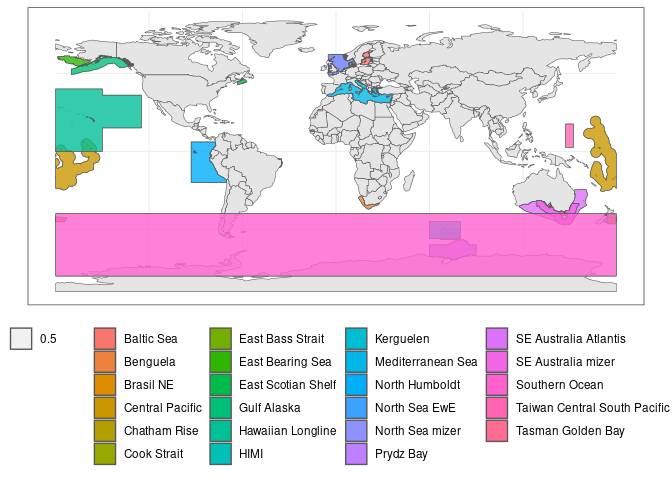
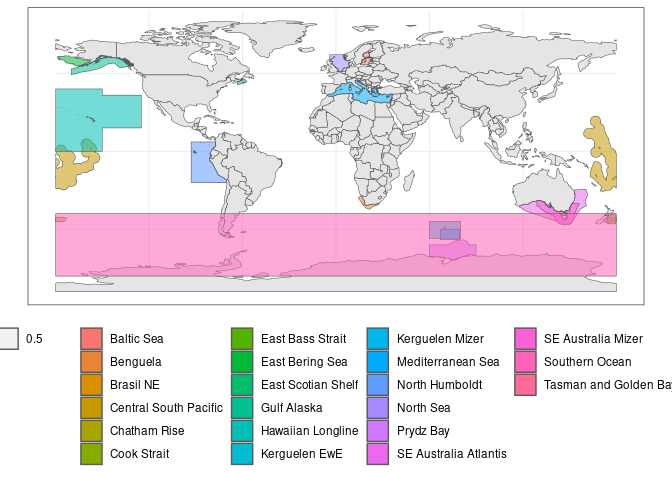
Correcting regional shapefiles

diff --git a/Scripts/01_Merging_Regional_Shapefiles.md b/Scripts/01_Merging_Regional_Shapefiles.md
@@ -8,6 +8,8 @@ Denisse Fierro Arcos
   libraries</a>
 - <a href="#loading-regional-shapefiles"
   id="toc-loading-regional-shapefiles">Loading regional shapefiles</a>
+  - <a href="#getting-list-of-directories"
+    id="toc-getting-list-of-directories">Getting list of directories</a>
   - <a href="#getting-list-of-lme-names-from-directory-paths"
     id="toc-getting-list-of-lme-names-from-directory-paths">Getting list of
     LME names from directory paths</a>
@@ -29,6 +31,7 @@ create maps or masks to extract Earth System Models (ESMs) outputs.
 library(dplyr)
 library(stringr)
 library(purrr)
+library(tidyr)
 #Spatial data
 library(sf)
 #Plotting data
@@ -47,6 +50,32 @@ to access this file.
 
 If you need access to regional shapefiles, please [email
 us](mailto:fishmip.coordinators@gmail.com).
+
+## Getting list of directories
+
+The name of the folders containing regional shapefiles contain the
+ecosystem models developed for that particular region. We will use this
+information to create two new columns in the final FishMIP regional
+models shapefile.
+
+``` r
+#Getting name of folders containing regional models
+reg <- list.dirs("../Shapefiles_Regions/", recursive = F, full.names = F)
+
+#Creating a table with ecosystem models available per region
+reg_info <- str_split(reg, "_", simplify = T) |>
+  data.frame() |> 
+  #Renaming columns
+  rename(region = X1, model_all = X2) |> 
+  #Replace "-" with a space in the region name
+  mutate(region = str_replace_all(region, "-", " "),
+         #Replace "-" with a comma in the ecosystem models column
+         models = str_replace_all(model_all, "-", ", ")) |> 
+  #Counting the number of ecosystem models available per region
+  separate_longer_delim(model_all, delim = "-") |> 
+  group_by(region, models) |> 
+  count(name = "number_models")
+```
 
 ## Getting list of LME names from directory paths
 
@@ -81,7 +110,12 @@ two
 regions <- region_paths |> 
   map(read_sf) |> 
   bind_rows() |> 
-  mutate(region = str_replace_all(region, "_", " "))
+  #Cleaning up names - Replace "_" for spaces " "
+  mutate(region = str_replace_all(region, "_", " ")) |> 
+  #Adding model names and number of ecosystem models available per region
+  left_join(reg_info, by = "region") |> 
+  #Moving geometry to the end
+  relocate(geometry, .after = number_models)
 ```
 
 ## Plotting merged regions in a map
@@ -105,7 +139,7 @@ ggplot()+
 
 ![](01_Merging_Regional_Shapefiles_files/figure-gfm/map-1.png)<!-- -->
 
-The merged shapefile includes 23 different regions, which matches the
+The merged shapefile includes 21 different regions, which matches the
 number of regional FishMIP models. We can now save this merged file.
 
 ``` r
@@ -116,7 +150,7 @@ if(!dir.exists(out_folder)){
   dir.create(out_folder, recursive = T)}
 
 regions |> 
-  write_sf(file.path(out_folder, "FishMIP_regional_models.shp"))
+  write_sf(file.path(out_folder, "FishMIP_regional_models.shp"), append = F)
 ```
 
 Remember, the final shapefile is also available in the [FishMIP THREDDS
